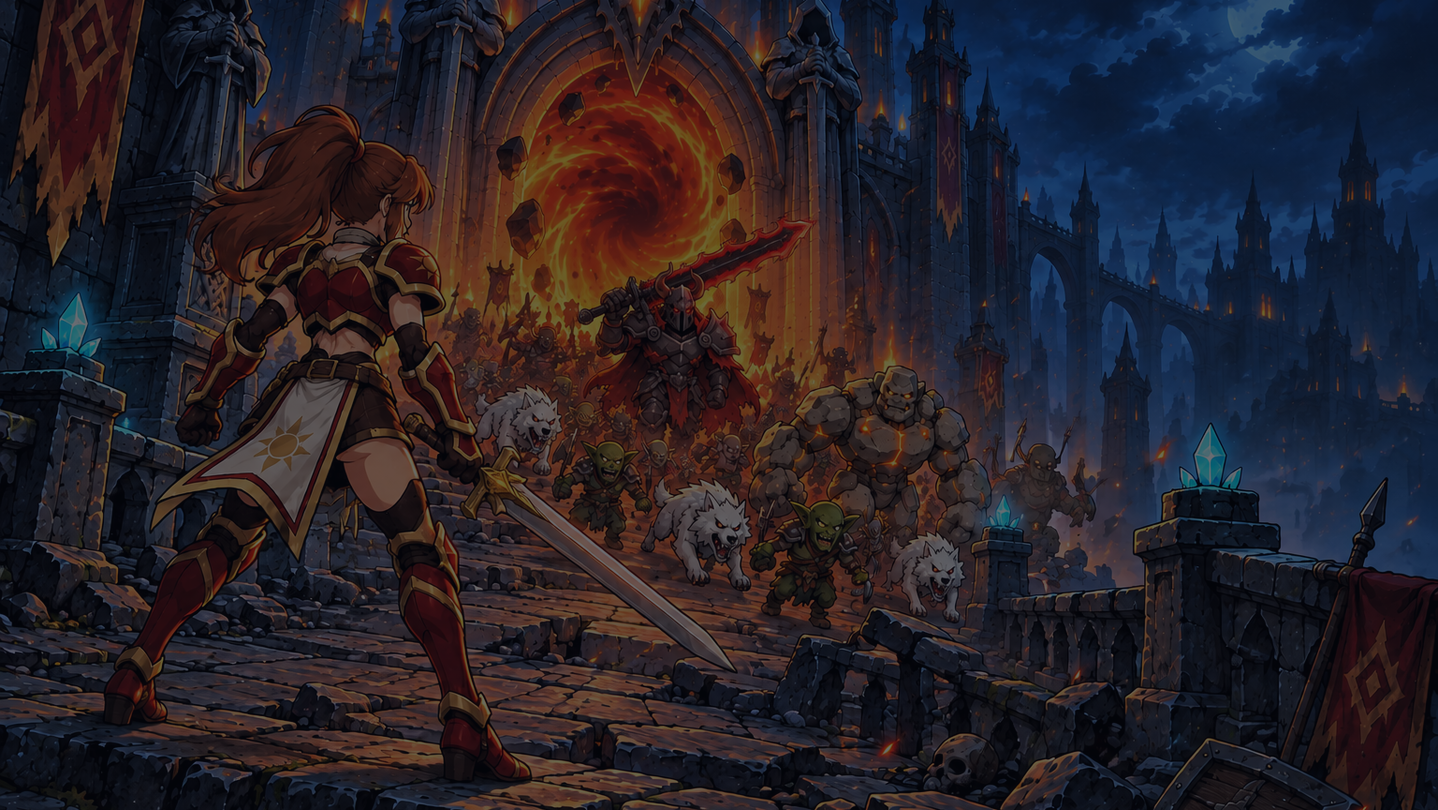
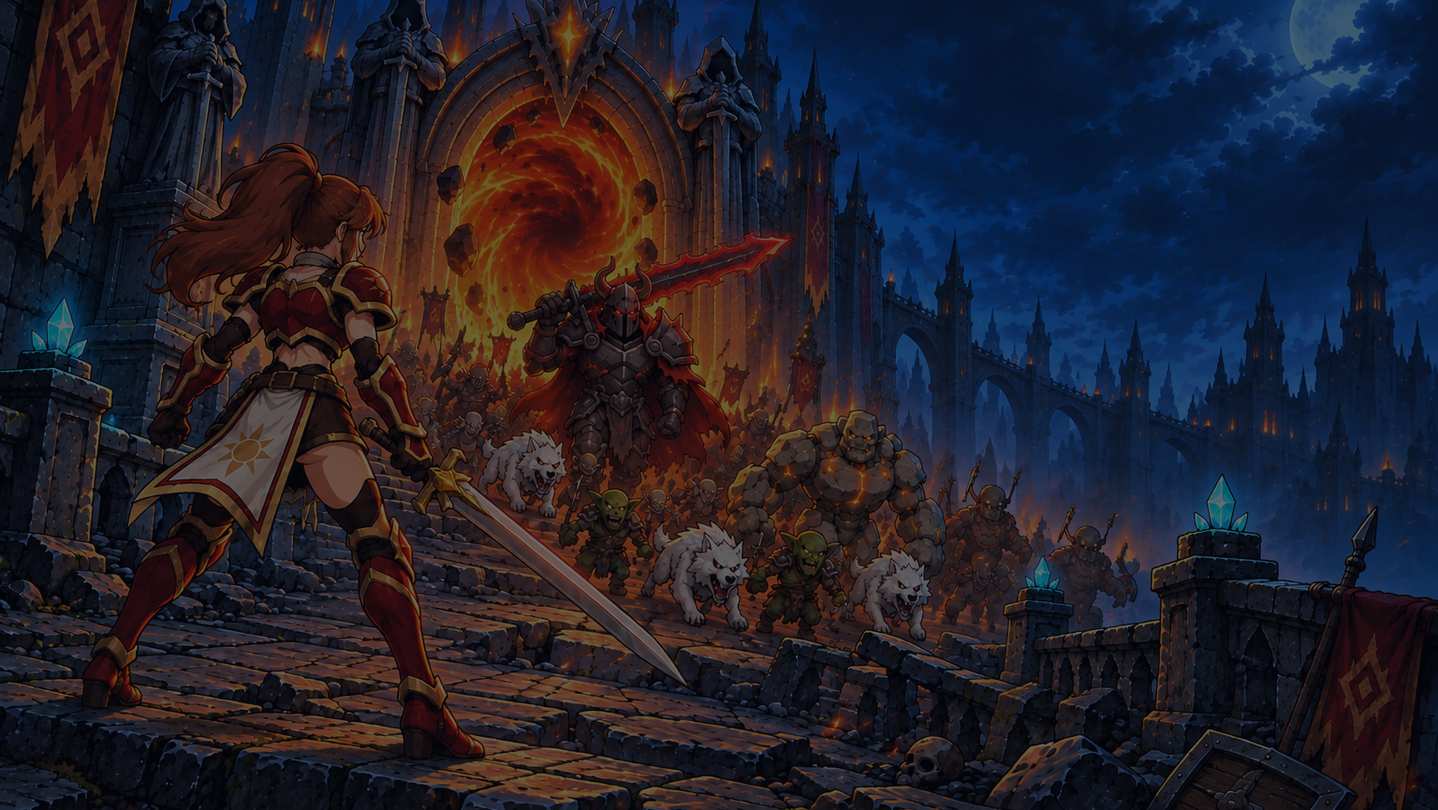
feat(steam): one painted picture per capsule format
Claude-Session: https://claude.ai/code/session_01LtYADxbd84PVKV1bvjrnNH

diff --git a/tools/art/make_steam_capsules.py b/tools/art/make_steam_capsules.py
@@ -1,46 +1,57 @@
-"""Builds the Steam store images from the key art (steam_assets/source_artwork/key_art_a1.png) and the logos.
+"""Builds the Steam store images from one painted picture per format (steam_assets/source_artwork/capsule_<name>.png,
+generated for the right ratio) and the logo.
 
 Run: python tools/art/make_steam_capsules.py
-Crops are given in key-art pixels (1536 x 1024); the logo goes on top of the crop at a given centre and width.
-Each image gets a soft dark halo behind the logo so it stays readable (it is part of the picture, not a border).
+Each source is cropped to the exact ratio (centred), resized, then the logo goes on top at a given centre and width,
+with a soft dark halo behind it so it stays readable. The Library Hero has no logo (Steam puts its own on it).
 """
 from pathlib import Path
 from PIL import Image, ImageDraw, ImageFilter
 
 ROOT = Path(__file__).resolve().parents[2]
-ART = ROOT / "steam_assets" / "source_artwork" / "key_art_a1.png"
+SRC = ROOT / "steam_assets" / "source_artwork"
 BRAND = ROOT / "assets" / "branding"
 OUT = ROOT / "steam_assets"
 
-# name: (output folder, size, crop box in key-art px, logo file or None, logo width in output px, logo centre in output px)
+# name: (source, output folder, size, logo width, logo centre in output px); logo width 0 = no logo
 JOBS = {
-    "header_capsule": ("capsules", (920, 430), (0, 110, 1536, 828), "title.png", 300, (752, 128)),
-    "main_capsule": ("capsules", (1232, 706), (0, 50, 1536, 930), "title.png", 440, (990, 200)),
-    "vertical_capsule": ("capsules", (748, 896), (110, 0, 965, 1024), "title.png", 440, (330, 140)),
-    "library_capsule": ("library", (600, 900), (190, 0, 873, 1024), "title.png", 380, (255, 125)),
-    "page_background": ("capsules", (1438, 810), (0, 80, 1536, 944), None, 0, (0, 0)),
+    "header_capsule": ("capsule_header", "capsules", (920, 430), 300, (765, 125)),
+    "main_capsule": ("capsule_main", "capsules", (1232, 706), 470, (975, 175)),
+    "small_capsule": ("capsule_small", "capsules", (462, 174), 250, (150, 87)),
+    "vertical_capsule": ("capsule_vertical", "capsules", (748, 896), 430, (374, 118)),
+    "library_capsule": ("capsule_library", "library", (600, 900), 380, (300, 118)),
+    "library_hero": ("capsule_hero", "library", (3840, 1240), 0, (0, 0)),
 }
 
 
-def halo(size, centre, logo_size):
+def halo(size, centre, logo_size, strength):
     """Soft dark ellipse behind the logo."""
     layer = Image.new("RGBA", size, (0, 0, 0, 0))
     d = ImageDraw.Draw(layer)
     w, h = logo_size
     cx, cy = centre
-    d.ellipse([cx - w * 0.62, cy - h * 0.62, cx + w * 0.62, cy + h * 0.62], fill=(6, 8, 20, 150))
+    d.ellipse([cx - w * 0.62, cy - h * 0.62, cx + w * 0.62, cy + h * 0.62], fill=(6, 8, 20, strength))
     return layer.filter(ImageFilter.GaussianBlur(max(w, h) * 0.12))
 
 
-def build(name, folder, size, crop, logo_name, logo_w, centre, art):
-    img = art.crop(crop).resize(size, Image.LANCZOS).convert("RGBA")
-    if name == "page_background":
-        img = Image.alpha_composite(img, Image.new("RGBA", size, (4, 6, 16, 150)))  # subtle, not too bright
-    if logo_name:
-        logo = Image.open(BRAND / logo_name).convert("RGBA")
+def crop_to_ratio(img, ratio):
+    w, h = img.size
+    if w / h > ratio:
+        cw, ch = round(h * ratio), h
+    else:
+        cw, ch = w, round(w / ratio)
+    x0, y0 = (w - cw) // 2, (h - ch) // 2
+    return img.crop((x0, y0, x0 + cw, y0 + ch))
+
+
+def build(name, source, folder, size, logo_w, centre):
+    img = crop_to_ratio(Image.open(SRC / f"{source}.png").convert("RGB"), size[0] / size[1])
+    img = img.resize(size, Image.LANCZOS).convert("RGBA")
+    if logo_w:
+        logo = Image.open(BRAND / "title.png").convert("RGBA")
         h = round(logo.height * logo_w / logo.width)
         logo = logo.resize((logo_w, h), Image.LANCZOS)
-        img = Image.alpha_composite(img, halo(size, centre, logo.size))
+        img = Image.alpha_composite(img, halo(size, centre, logo.size, 120 if name == "small_capsule" else 150))
         img.alpha_composite(logo, (round(centre[0] - logo_w / 2), round(centre[1] - h / 2)))
     dest = OUT / folder
     dest.mkdir(parents=True, exist_ok=True)
@@ -48,33 +59,19 @@ def build(name, folder, size, crop, logo_name, logo_w, centre, art):
     return dest / f"{name}.png"
 
 
-def small_capsule(art):
-    """Small capsule: big logo on the left, the hero's head and the portal glow on the right (calm, readable at 231 x 87)."""
-    w, h = 462, 174
-    crop = art.crop((60, 150, 720, 150 + round(660 * h / w))).resize((w, h), Image.LANCZOS).convert("RGBA")
-    fade = Image.new("L", (w, h))
-    d = ImageDraw.Draw(fade)
-    for x in range(w):
-        d.line([(x, 0), (x, h)], fill=int(max(0.0, min(1.0, (0.62 - x / w) / 0.35)) * 200))
-    shade = Image.new("RGBA", (w, h), (6, 8, 20, 255))
-    shade.putalpha(fade)
-    img = Image.alpha_composite(crop, shade)
-    logo = Image.open(BRAND / "title.png").convert("RGBA")
-    lw = 205
-    lh = round(logo.height * lw / logo.width)
-    img.alpha_composite(logo.resize((lw, lh), Image.LANCZOS), (18, (h - lh) // 2))
-    (OUT / "capsules").mkdir(parents=True, exist_ok=True)
-    img.convert("RGB").save(OUT / "capsules" / "small_capsule.png")
+def page_background():
+    """Page background: the main picture, darkened (subtle, not too bright), no logo."""
+    img = crop_to_ratio(Image.open(SRC / "capsule_main.png").convert("RGB"), 1438 / 810).resize((1438, 810), Image.LANCZOS)
+    img = Image.alpha_composite(img.convert("RGBA"), Image.new("RGBA", img.size, (4, 6, 16, 150)))
+    img.convert("RGB").save(OUT / "capsules" / "page_background.png")
 
 
 def extras():
     """Library header (= header capsule), library logo, app icon (jpg, solid background) and shortcut icon."""
     lib = OUT / "library"
-    lib.mkdir(parents=True, exist_ok=True)
     Image.open(OUT / "capsules" / "header_capsule.png").save(lib / "library_header.png")
     logo = Image.open(BRAND / "title.png").convert("RGBA")
-    # 1280 wide max, 5 % safety margin around the logo
-    inner = round(1280 * 0.9)
+    inner = round(1280 * 0.9)  # 5 % safety margin around the logo
     resized = logo.resize((inner, round(logo.height * inner / logo.width)), Image.LANCZOS)
     canvas = Image.new("RGBA", (1280, round(resized.height / 0.9)), (0, 0, 0, 0))
     canvas.alpha_composite(resized, ((1280 - inner) // 2, (canvas.height - resized.height) // 2))
@@ -89,10 +86,9 @@ def extras():
 
 
 def main():
-    art = Image.open(ART).convert("RGB")
-    for name, (folder, size, crop, logo, logo_w, centre) in JOBS.items():
-        print(build(name, folder, size, crop, logo, logo_w, centre, art))
-    small_capsule(art)
+    for name, (source, folder, size, logo_w, centre) in JOBS.items():
+        print(build(name, source, folder, size, logo_w, centre))
+    page_background()
     extras()
 
 

diff --git a/steam_assets/README.md b/steam_assets/README.md
@@ -17,7 +17,7 @@ Statuts : `à créer` · `en cours` · `prêt` · `à vérifier`.
 | Scène du menu principal (1920x1080, peinte) | `assets/ui/backgrounds/menu.png` | arrière-plan de page, hero |
 | Montage et sources du logo | `art_tests/logo/` (non versionné) | `compose.py` |
 
-Illustration maîtresse validée par le dev (2026-10-25) : `source_artwork/key_art_a1.png` (Épéiste de dos devant le portail, boss et horde ; 1536 x 1024). Les images sont produites par `python tools/art/make_steam_capsules.py`.
+Illustration maîtresse validée par le dev (2026-10-25) : `source_artwork/key_art_a1.png` (Épéiste de dos devant le portail, boss et horde). **Une image IA par format** (`source_artwork/capsule_<nom>.png`, composée pour le bon ratio, même héroïne, même style), recadrée au ratio exact + logo par `python tools/art/make_steam_capsules.py`. Règles Valve (doc Steamworks « Store Graphical Assets ») : Header, Main et Vertical = même visuel et même logo, aucun texte autre que le titre ; la Small Capsule peut avoir une autre image, le logo doit presque la remplir.
 
 ## Capsules de la boutique (`capsules/`)
 | Asset | Taille | Format | Statut | Contenu / règle |
@@ -33,7 +33,7 @@ Illustration maîtresse validée par le dev (2026-10-25) : `source_artwork/key_a
 |---|---|---|---|---|
 | Library Capsule | 600 x 900 | PNG | à valider | variante verticale de l'illustration maîtresse + logo |
 | Library Header | 920 x 430 | PNG | à valider (copie du Header) | identique au Header Capsule |
-| Library Hero | 3840 x 1240 | PNG | à créer : le key art 3:2 ne se recadre pas en 3:1 sans couper l'héroïne ; demande une image large dédiée | illustration seule, **sans logo** (le logo est posé dessus par Steam) ; garder le sujet au centre-gauche |
+| Library Hero | 3840 x 1240 | PNG | à valider (image 1536 px agrandie 2,5x : un peu douce) | illustration seule, **sans logo** (le logo est posé dessus par Steam) ; garder le sujet au centre-gauche |
 | Library Logo | 1280 de large et/ou 720 de haut | PNG transparent | à valider | `assets/branding/title.png` ou `logo_vertical.png` détouré, marge de sécurité 5 % |
 
 ## Icônes (`icons/`)
